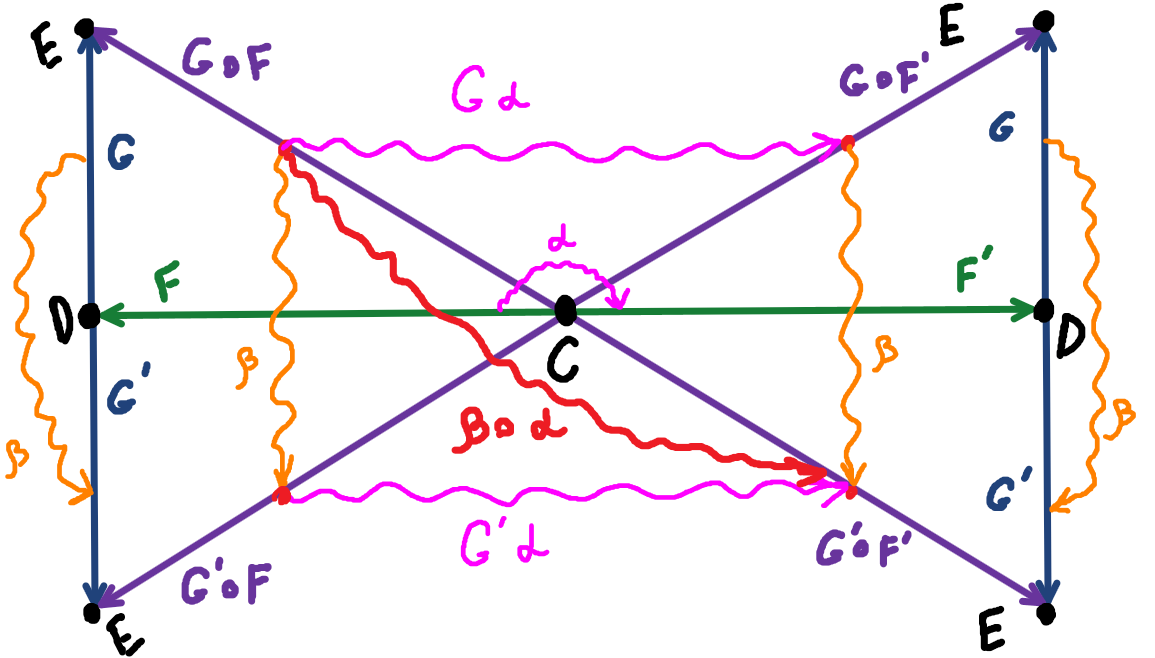
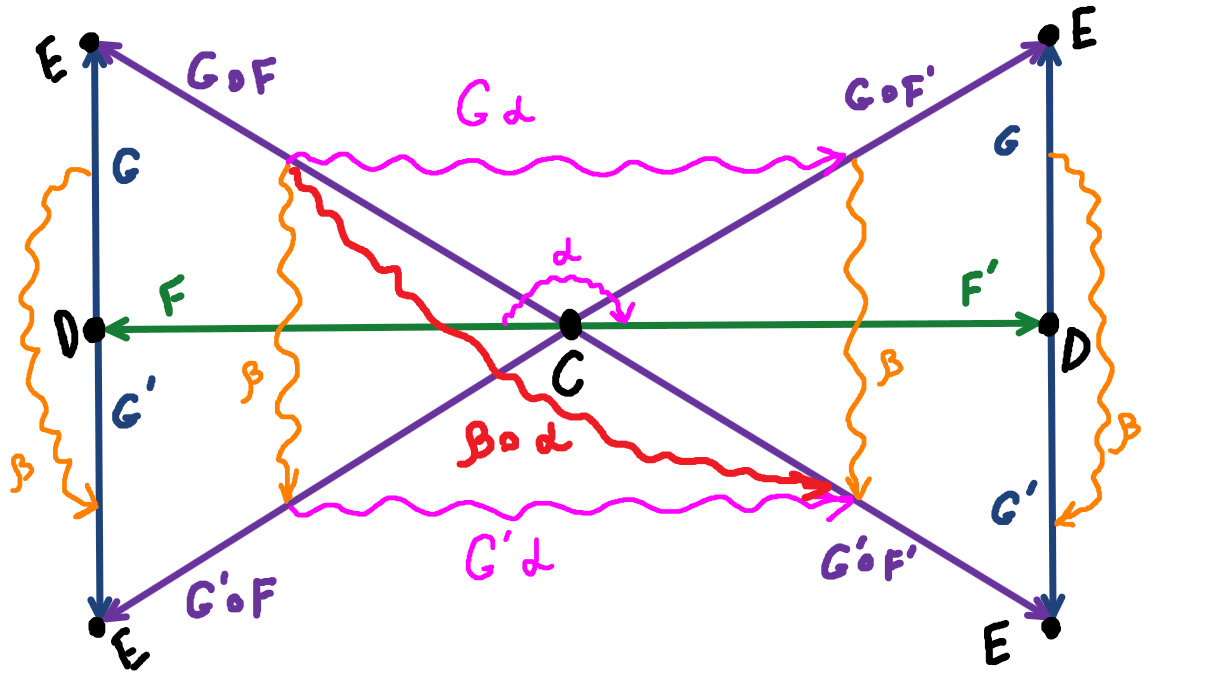
vault backup: 2025-07-28 09:04:33

Changed region(s): [[0.0, 0.0, 0.9974, 1.0], [0.0, 0.5471, 0.1558, 0.7903], [0.374, 0.0912, 0.4675, 0.1824]]

diff --git a/Рефераты/ФП/Категории типов/! Категории типов. Часть 3. Естественные преобразования.md b/Рефераты/ФП/Категории типов/! Категории типов. Часть 3. Естественные преобразования.md
@@ -55,7 +55,7 @@ val path2: List[A] => Option[B] = α[B] compose f.lift[List]
 assert(path1(lstA) == path2(lstA)) // для любых lstA: List[A]
 ```
 
-Если наше преобразование кристально чистое и универсально полиморфное, не гарантирует ли это его естественность автоматически? На самом деле нет. Приведённое выше преобразование вполне себе естественно для пары функторов, представленных встроенными методами `List.map` и `Option.map`. Но если первый функтор заменить на `darkFunctorList: Functor[List]` из **предыдущей части обзора**, то естественность сразу теряется:
+Если наше преобразование кристально чистое и универсально полиморфное, не гарантирует ли это его естественность автоматически (как это написано у Милевски)? На самом деле нет. Приведённое выше преобразование вполне себе естественно для пары функторов, представленных встроенными методами `List.map` и `Option.map`. Но если первый функтор заменить на `darkFunctorList: Functor[List]` из **предыдущей части обзора**, то естественность сразу теряется:
 ```scala
 // если в контексте лежат darkFunctorList и обычный optionFunctor из предыдущего примера,
 // тогда эти два пути уже не коммутируют!
@@ -68,13 +68,13 @@ path1(lstString)  // Some(4)
 path2(lstString)  // Some(2)
 ```
 
-Для `darkFunctor` (в паре с `Option.map`) естественным будет такое преобразование:
+Для `darkFunctor` (в паре с `Option.map`) естественным будет такое  тривиалььное преобразование:
 ```scala
 val β: List ~> Option = [A] => (_: List[A]) => None
 ```
 Оно будет также естественным и для варианта с `List.map`, но пользы от него, очевидно, не много.
 
-Естественные преобразования являются морфизмами между функторов, но с их помощью мы *не преобразуем существующие функторы*, получая новые. Тем не менее, условие естественности говорит нам, что для такого преобразования обязательно должны быть заданы не только пара категорий, но и два сонаправленных функтора между ними.
+Естественные преобразования являются морфизмами между функторами, но с их помощью мы *не преобразуем существующие функторы*, получая новые. Тем не менее, условие естественности говорит нам, что для такого преобразования обязательно должны быть заданы не только пара категорий, но и два сонаправленных функтора между ними.
 
 
 
@@ -107,7 +107,7 @@ idToOpt(42) // Some(42)
 
 Действительно, рассмотрим такую диаграмму:
 
-![[натуральная композиция.png|Композиция естественных преобразований.|1000]]
+![[вертикальная композиция.png|Композиция естественных преобразований.|1000]]
 
 Преобразование $\alpha$, заданное для функторов $F$ и $G$, можно скомпозировать с $\beta$,  определённом для $G$ и $H$. При этом получается преобразование $\gamma$ для функторов $F$ и $H$. Причём композиция получается ассоциативная и уважающая тождественное преобразование.
 
@@ -139,7 +139,7 @@ extension[F1[_], F2[_]] (α: F1 ~> F2)
     [A] => (fga: (G1 ∘ F1)[A]) => (α[A].lift[G2] compose β[F1[A]])(fga)
 ```
 
-# Изоморфизм функторов
+# Изоморфизмы категорий
 
 
 

diff --git a/Рефераты/ФП/Категории типов/! Категории типов. Часть 4. Пределы, сопряжения, монады..md b/Рефераты/ФП/Категории типов/! Категории типов. Часть 4. Пределы, сопряжения, монады..md
@@ -1,6 +1,7 @@
 
 # Пределы и универсальные свойства
 
+Коммутативность диаграммы часто можно свести к естественности преобразований
 
 # Сопряжения
 
